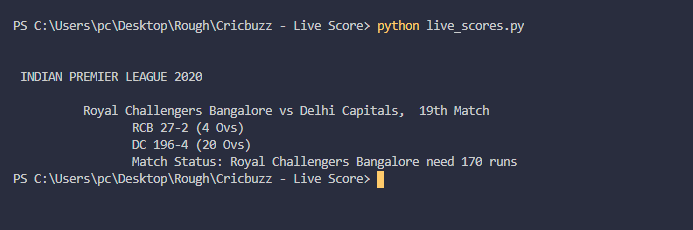
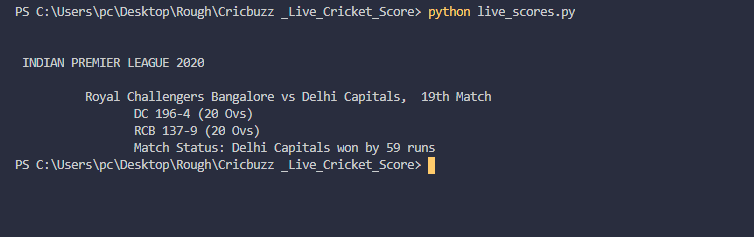
Live Cricket Score - Cricbuzz Modified

Changed region(s): [[0.0, 0.2435, 0.7576, 0.8217], [0.0, 0.0304, 0.7879, 0.1522]]

diff --git a/Scripts/Web_Scrappers/Cricbuzz _Live_Cricket_Score/live_scores.py b/Scripts/Web_Scrappers/Cricbuzz _Live_Cricket_Score/live_scores.py
@@ -44,7 +44,10 @@ def live_score():
                     team2_score = team2.find("div", attrs={"class": "cb-ovr-flo","style": "display:inline-block; width:140px"}).text
                     print("\t\t", team2_name, team2_score)
 
-                match_status = details.find("div", attrs={"class": "cb-text-live"}).text
+                match_status = details.find("div", attrs={"class": "cb-text-live"})
+                if match_status is None:
+                    match_status = details.find("div", attrs={"class": "cb-text-complete"})
+                match_status = match_status.text
                 print("\t\t Match Status:",match_status)
 
 # Scraping the live cricket score and displaying it
